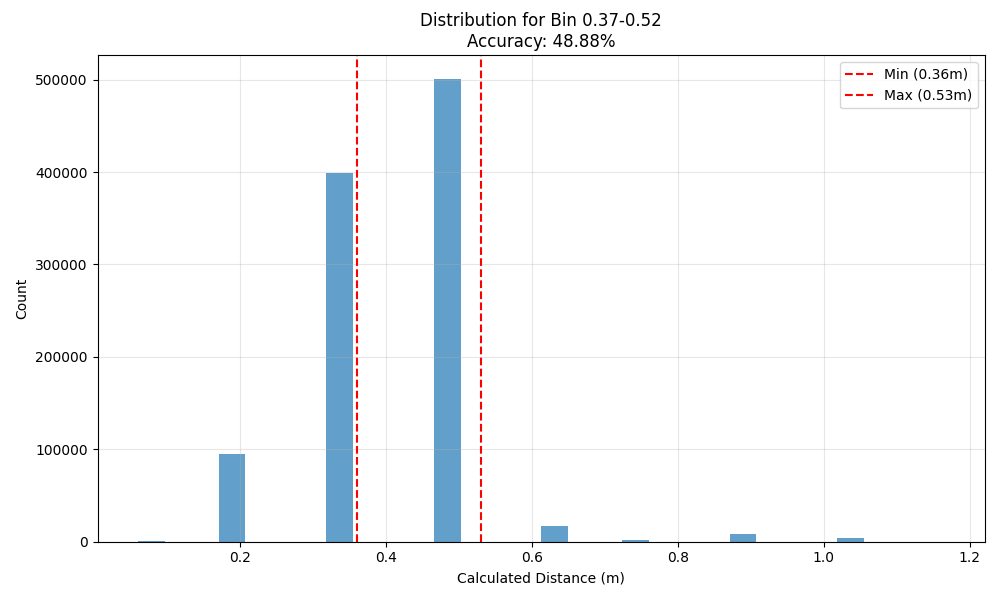
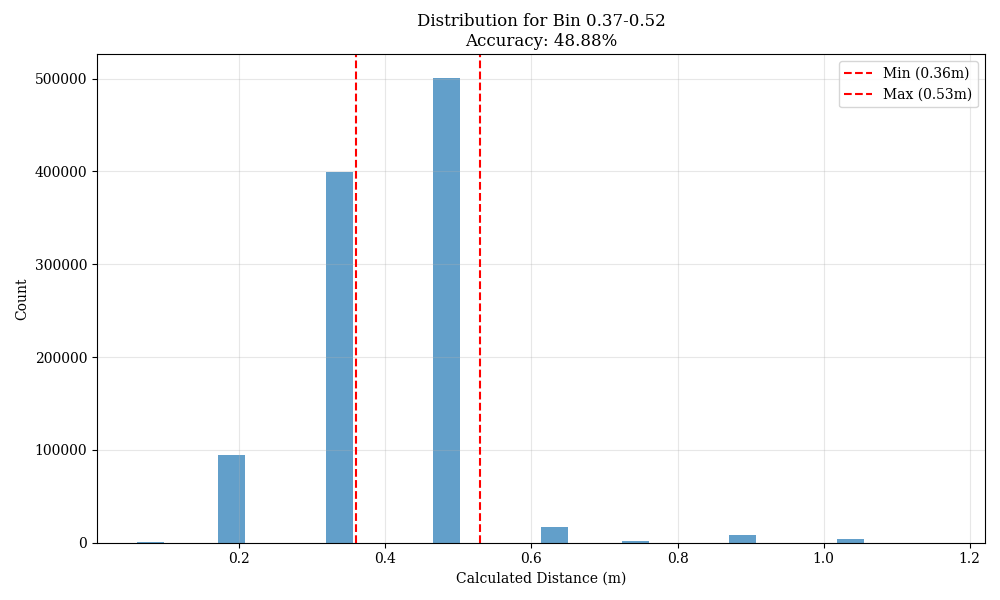
Updated

diff --git a/data_analysis.py b/data_analysis.py
@@ -2,8 +2,13 @@ import os
 import pandas as pd
 import numpy as np
 import matplotlib.pyplot as plt
+import matplotlib.font_manager as font_manager
 import re
 from collections import defaultdict
+
+plt.rcParams['font.family']='serif'
+# cmfont = font_manager.FontProperties(fname='cmunrm.ttf')
+# plt.rcParams['font.serif']=cmfont.get_name()
 
 def parse_bin_range(bin_name):
     """Extract the min and max values from a bin range string and adjust by 0.01m"""
@@ -16,7 +21,7 @@ def parse_bin_range(bin_name):
     return None, None
 
 def analyze_dataset(base_dir="DataSet"):
-    """Analyze all bins in the dataset for accuracy, including the no_object dataset"""
+    """Analyze all bins in the dataset for accuracy."""
     results = []
     
     # Check if base directory exists
@@ -35,46 +40,7 @@ def analyze_dataset(base_dir="DataSet"):
             print(f"Warning: No FilteredCSV directory found in {bin_path}")
             continue
         
-        # Handle the no_object dataset separately
-        if bin_dir == "no_object":
-            print(f"Processing bin: {bin_dir}")
-            all_distances = []
-            
-            # Process each CSV file
-            csv_files = [f for f in os.listdir(filtered_csv_path) if f.endswith('.csv')]
-            
-            for csv_file in csv_files:
-                file_path = os.path.join(filtered_csv_path, csv_file)
-                try:
-                    # Read the CSV file
-                    df = pd.read_csv(file_path)
-                    
-                    # Extract calculated distances (Range column)
-                    if "Range (m)" in df.columns:
-                        distances = df["Range (m)"].dropna().tolist()
-                        all_distances.extend(distances)
-                        
-                except Exception as e:
-                    print(f"Error processing {file_path}: {e}")
-            
-            if not all_distances:
-                print(f"No distance data found for bin {bin_dir}")
-                continue
-            
-            # For no_object, accuracy is always 0 since no distances should be in range
-            bin_result = {
-                "bin_name": bin_dir,
-                "bin_range": (None, None),  # No range for no_object
-                "all_distances": all_distances,
-                "in_range_count": len(all_distances),
-                "total_count": len(all_distances),
-                "accuracy": len(all_distances) / len(all_distances) if all_distances else 0
-            }
-            
-            results.append(bin_result)
-            continue
-        
-        # Parse the bin range for other bins
+        # Parse the bin range for bins
         bin_low, bin_high = parse_bin_range(bin_dir)
         if bin_low is None:
             print(f"Warning: Could not parse bin range from '{bin_dir}', skipping")
@@ -170,39 +136,42 @@ def create_distribution_charts(results, output_dir="accuracy_plots"):
         print(f"Created charts for bin {bin_name}")
     
     # Create summary accuracy bar chart
-    plt.figure(figsize=(12, 6))
+    plt.figure(figsize=(12, 6.5))
     bin_names = [data["bin_name"] for data in sorted(results, key=lambda x: x["bin_name"])]
     accuracies = [data["accuracy"] * 100 for data in sorted(results, key=lambda x: x["bin_name"])]
     ML_accuracies = [hardcoded_ML_accuracy[i] * 100 for i in range(len(accuracies))]
     
-    bar_width = 0.4  # Width of each bar
+    bar_width = 0.45  # Width of each bar
     x_indices = np.arange(len(bin_names))  # X positions for the bars
 
     # Set font to Calibri and increase font size to 30
-    plt.rcParams['font.family'] = 'Calibri'
-    plt.rcParams['font.size'] = 38
+    # plt.rcParams['font.family'] = 'cmunrm'
+    plt.rcParams['font.size'] = 30
 
     # Plot CNN Accuracy bars shifted to the left
-    plt.bar(x_indices + bar_width / 2, ML_accuracies, bar_width, label='CNN Accuracy', color='#E5751F')
+    plt.bar(x_indices + bar_width / 2, ML_accuracies, bar_width, label='CNN', color='#E5751F')
 
     # Plot RADAR Signal Processing Accuracy bars shifted to the right
-    plt.bar(x_indices - bar_width / 2, accuracies, bar_width, label='Signal Processing Accuracy', color='#861F41')
+    plt.bar(x_indices - bar_width / 2, accuracies, bar_width, label='Peak Detection', color='#861F41')
 
     # Adjust x-ticks to align with the center of the grouped bars
     bin_names_formatted = [bin_name.replace("_", " ") for bin_name in bin_names]
-    plt.xticks(x_indices, bin_names_formatted)
+    plt.xticks(x_indices, bin_names_formatted, fontsize=20)
     # plt.title('Accuracy by Distance Bin')
-    plt.xlabel('Distance Bin (m)')
-    plt.ylabel('Accuracy (%)')
+    plt.xlabel('Distance Bin (m)', fontsize=30)
+    plt.ylabel('Accuracy (%)', fontsize=30)
     plt.ylim(0, 100)
-    plt.grid(True, alpha=0.3)
-    plt.xticks(rotation=0, ha='center', fontsize=24)
-    plt.legend(loc='lower left', fontsize=29, bbox_to_anchor=(0., 1.02, 1., .102), ncol=2, mode="expand", borderaxespad=0.)
+    plt.yticks([0, 50, 100])
+    plt.grid(True, alpha=0.5)
+    # Format x-tick labels to enter a new line after 5 characters
+    bin_names_formatted = ['\n'.join([bin_name[i:i+5] for i in range(0, len(bin_name), 5)]) for bin_name in bin_names_formatted]
+    plt.xticks(x_indices, bin_names_formatted, rotation=0, ha='center', fontsize=30)
+    plt.legend(loc='lower left', fontsize=34, bbox_to_anchor=(0., 1.02, 1., .102), ncol=2, mode="expand", borderaxespad=0.)
     
-    # Save the summary plot
+    # Save the summary plot with a transparent background
     summary_path = os.path.join(output_dir, "accuracy_summary.png")
     plt.tight_layout()
-    plt.savefig(summary_path)
+    plt.savefig(summary_path, transparent=True)
     plt.close()
     
     print(f"Created summary accuracy chart: {summary_path}")
